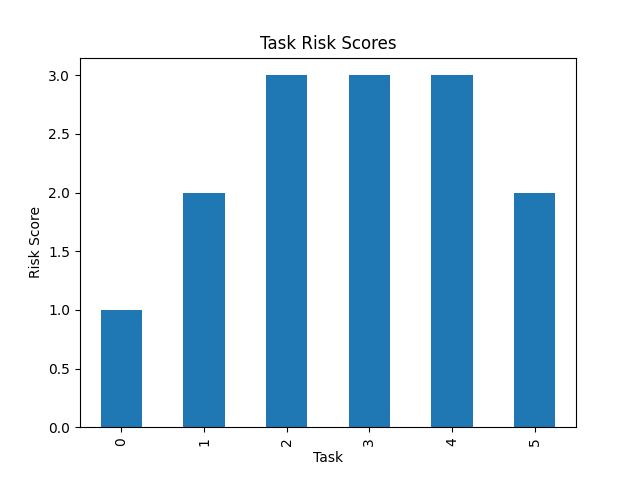
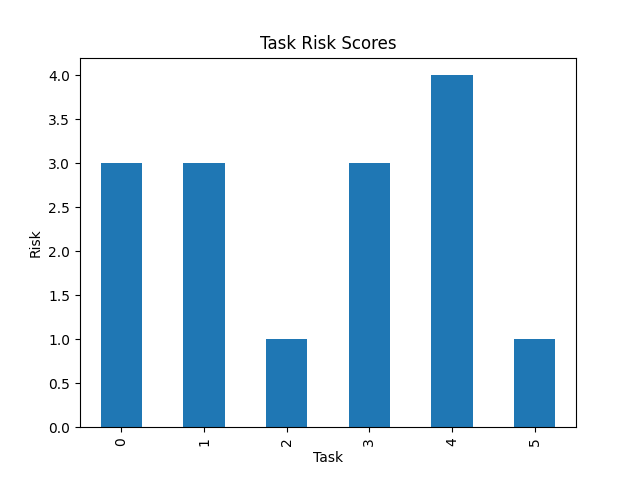
folders added
Appropriate architecture

diff --git a/main.py b/main.py
@@ -3,10 +3,14 @@ from requests.auth import HTTPBasicAuth
 import pandas as pd
 import random
 import matplotlib.pyplot as plt
-from dotenv import load_dotenv
-import os
 from fpdf import FPDF
 
+
+from agents.risk_agent import calculate_risk
+from agents.capacity_agent import capacity_analysis
+from agents.recommendation_agent import ai_recommendation
+from agents.requirement_agent import requirement_analysis
+from context.context_builder import build_context
 
 email = "zeynepuz2003@gmail.com"
 api_token = "ATATT3xFfGF0TPa2jkYWlFSXnAhwlY0acmWFlW8Ri9p0qeFHXAclcY442pSN8IqqXZOisLemj2g--mGEISxL7dKmE-YWtUpcHzHpFYOHkDyeQO3-zKBRRjI1Dyx_Bs--uR5Rp4qzlMhf5m_1lHLE5XejwHExbjQITImqVbZgfg7achxFeqlzUrU=0D32B338"
@@ -50,7 +54,51 @@ for issue in data.get("issues", []):
 
 df = pd.DataFrame(issues_list)
 
+
+# delay hesaplama
 df["delay"] = df["real_days"] > df["estimated_days"]
+
+# 🤖 AGENTS ÇALIŞIYOR
+df = calculate_risk(df)
+
+df = ai_recommendation(df)
+
+df = requirement_analysis(df)
+
+team_capacity, total_effort = capacity_analysis(df)
+
+print("\nTASK TABLE\n")
+print(df)
+
+print("\nTEAM CAPACITY:", team_capacity)
+print("TOTAL EFFORT:", total_effort)
+
+project_context = build_context(df)
+
+print("\nPROJECT CONTEXT\n")
+
+for key,value in project_context.items():
+    print(key, ":", value)
+    
+    
+# grafik
+plt.figure()
+df["risk_score"].plot(kind="bar")
+
+plt.title("Task Risk Scores")
+plt.xlabel("Task")
+plt.ylabel("Risk")
+
+plt.savefig("risk_chart.png")
+
+
+
+
+
+
+'''çalışıyordu sonrasında folderlara ayırdım.'''
+
+'''df["delay"] = df["real_days"] > df["estimated_days"]
 
 
 
@@ -256,4 +304,4 @@ if total_effort > team_capacity:
     print("Recommendation: Reduce tasks")
 
 else:
-    print("Sprint feasible")
+    print("Sprint feasible")'''

diff --git a/agents/requirement_agent.py b/agents/requirement_agent.py
@@ -1,0 +1,17 @@
+def requirement_analysis(df):
+
+    def check_requirement(row):
+
+        text = row["summary"].lower()
+
+        keywords = ["feature", "ai", "system", "analysis", "integration"]
+
+        for k in keywords:
+            if k in text:
+                return "Aligned with requirement"
+
+        return "Low requirement alignment"
+
+    df["requirement_alignment"] = df.apply(check_requirement, axis=1)
+
+    return df

diff --git a/agents/recommendation_agent.py b/agents/recommendation_agent.py
@@ -1,0 +1,16 @@
+def ai_recommendation(df):
+
+    def recommendation(row):
+
+        if row["risk_score"] >= 3:
+            return "High risk → split task"
+
+        elif row["delay"]:
+            return "Delayed → increase priority"
+
+        else:
+            return "Monitor task"
+
+    df["recommendation"] = df.apply(recommendation, axis=1)
+
+    return df

diff --git a/agents/risk_agent.py b/agents/risk_agent.py
@@ -1,0 +1,19 @@
+def calculate_risk(df):
+
+    def risk_score(row):
+        score = 0
+
+        if row["delay"]:
+            score += 2
+
+        if row["estimated_days"] > 5:
+            score += 1
+
+        if row["status"] != "Tamam":
+            score += 1
+
+        return score
+
+    df["risk_score"] = df.apply(risk_score, axis=1)
+
+    return df

diff --git a/context/context_builder.py b/context/context_builder.py
@@ -1,0 +1,11 @@
+def build_context(df):
+
+    context = {
+        "total_tasks": len(df),
+        "completed_tasks": len(df[df["status"] == "Tamam"]),
+        "delayed_tasks": len(df[df["delay"] == True]),
+        "average_risk": df["risk_score"].mean(),
+        "high_risk_tasks": len(df[df["risk_score"] >= 3])
+    }
+
+    return context

diff --git a/agents/capacity_agent.py b/agents/capacity_agent.py
@@ -1,0 +1,13 @@
+def capacity_analysis(df):
+
+    team_members = 3
+    hours_per_member = 40
+    sprint_weeks = 2
+
+    team_capacity = team_members * hours_per_member * sprint_weeks
+
+    df["effort_hours"] = df["estimated_days"] * 6
+
+    total_effort = df["effort_hours"].sum()
+
+    return team_capacity, total_effort
